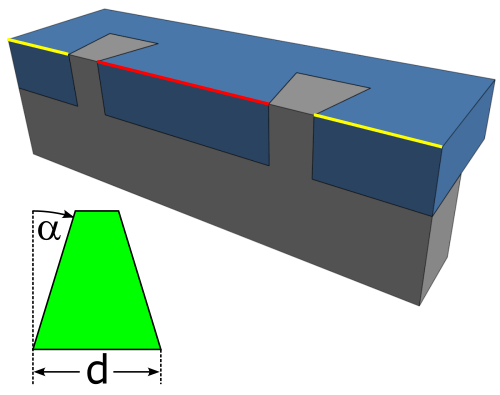
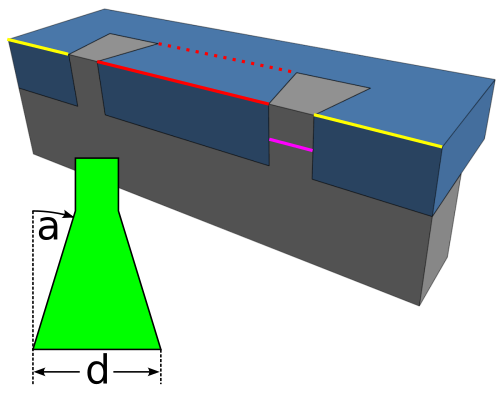
Updated graphics for dovetails dialog and improved error messages accordingly, added screenshot of dialog.

diff --git a/shaper_origin_dovetails.py b/shaper_origin_dovetails.py
@@ -263,7 +263,7 @@ class ShaperOriginDovetailsExtension(ShaperEffectExtension):
                     "specified for\n  1) cutting angle "
                     f"({self.options.cut_angle}°),\n"
                     f"  2) dovetail bit diameter ({self.options.tail_bit_diameter}"
-                    "mm) and\n  3) the thickness of the pins board ("
+                    "mm) and\n  3) the thickness of the grey pins board ("
                     f"{self.options.pin_thickness}mm, determines the plunge "
                     "depth) lead to a geometry that is impossible to cut.\n\n"
                     "Please re-check these parameters.")
@@ -285,8 +285,9 @@ class ShaperOriginDovetailsExtension(ShaperEffectExtension):
         if self.smaller_width_tails  < self.options.pin_bit_diameter:
             return ("The specified width of the tails (red line) is "
                     f"{self.options.width_tails}mm, which results in a "
-                    f"(lower/smaller) width of {self.smaller_width_tails:.2f}"
-                    "mm.\n\nThis is smaller than the diameter of your straight"
+                    f"(lower/smaller) width (dotted red line) of "
+                    "{self.smaller_width_tails:.2f}mm.\n\n"
+                    "This is smaller than the diameter of your straight"
                     f" router bit ({self.options.pin_bit_diameter}mm).\n\n"
                     "As this bit cannot cut a gap this small, this cannot "
                     "work.\n\nYou'll either have to use a thinner straight "
@@ -321,11 +322,12 @@ class ShaperOriginDovetailsExtension(ShaperEffectExtension):
         if self.individual_width_of_tail_cut < self.upper_tail_diameter:
             return ("The calculated width of the cuts made between the "
                     f"dovetails is {self.individual_width_of_tail_cut:.2f}"
-                    "mm.\n\nYou will not be able to make these cuts, as the "
+                    "mm (see pink line in the graphics).\n\n"
+                    "You will not be able to make these cuts, as the "
                     "diameter of your dovetail bit is "
                     f"{self.upper_tail_diameter:.2f}mm when plunged "
                     f"down to {self.options.pin_thickness}mm depth (i.e. the "
-                    "thickness of the pins board).\n\n"
+                    "thickness of the grey pins board).\n\n"
                     "Please reduce the number of tails or the tail width "
                     "accordingly.")
         return None

diff --git a/README.md b/README.md
@@ -103,3 +103,5 @@ of your dovetail and your straight router bits as well as the number and width o
 The extension is only able to generate routing paths for dovetails with the same width. If you would
 like to create dovetails with different sizes, you'll have to modify the results of the extension by hand.
 
+This extension will get it's own documentation page in the near future. Until then follow the 
+description in the dialog of the plugin, which contains quite a bit of information.
